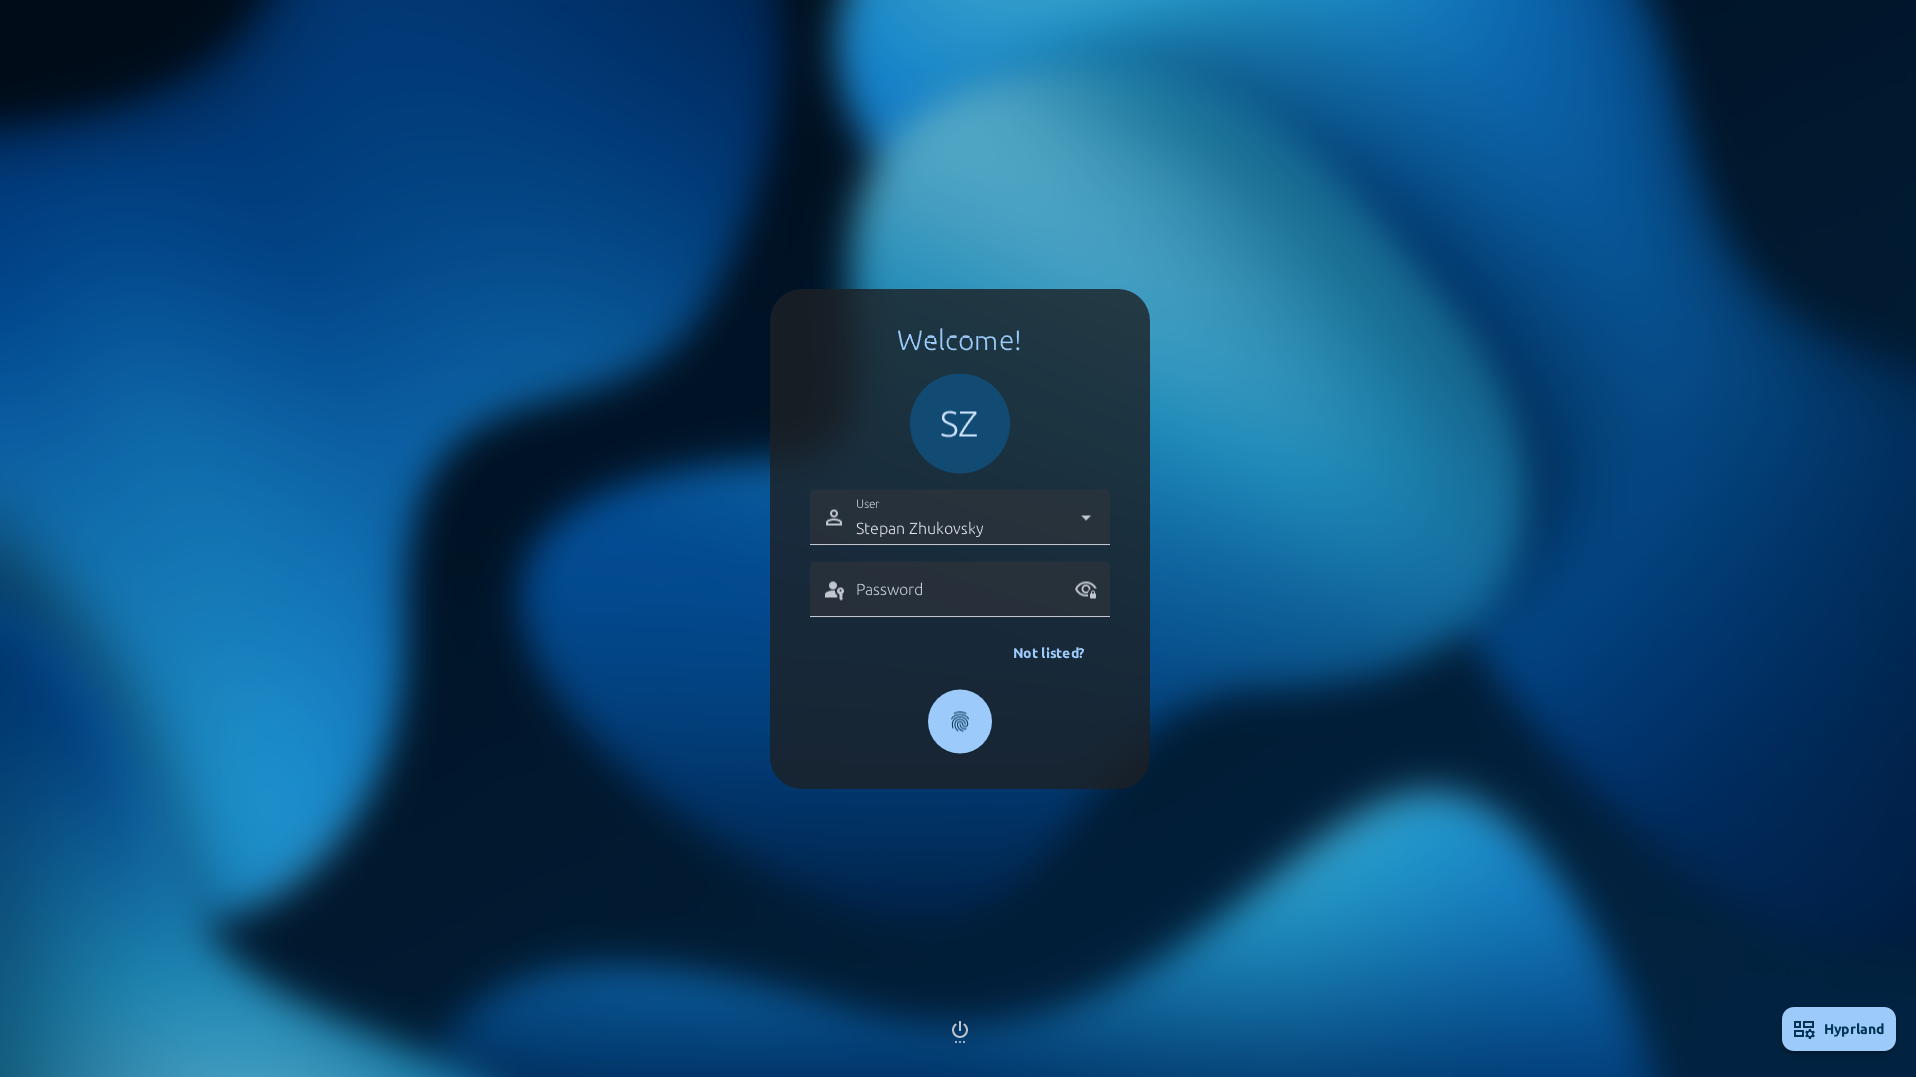
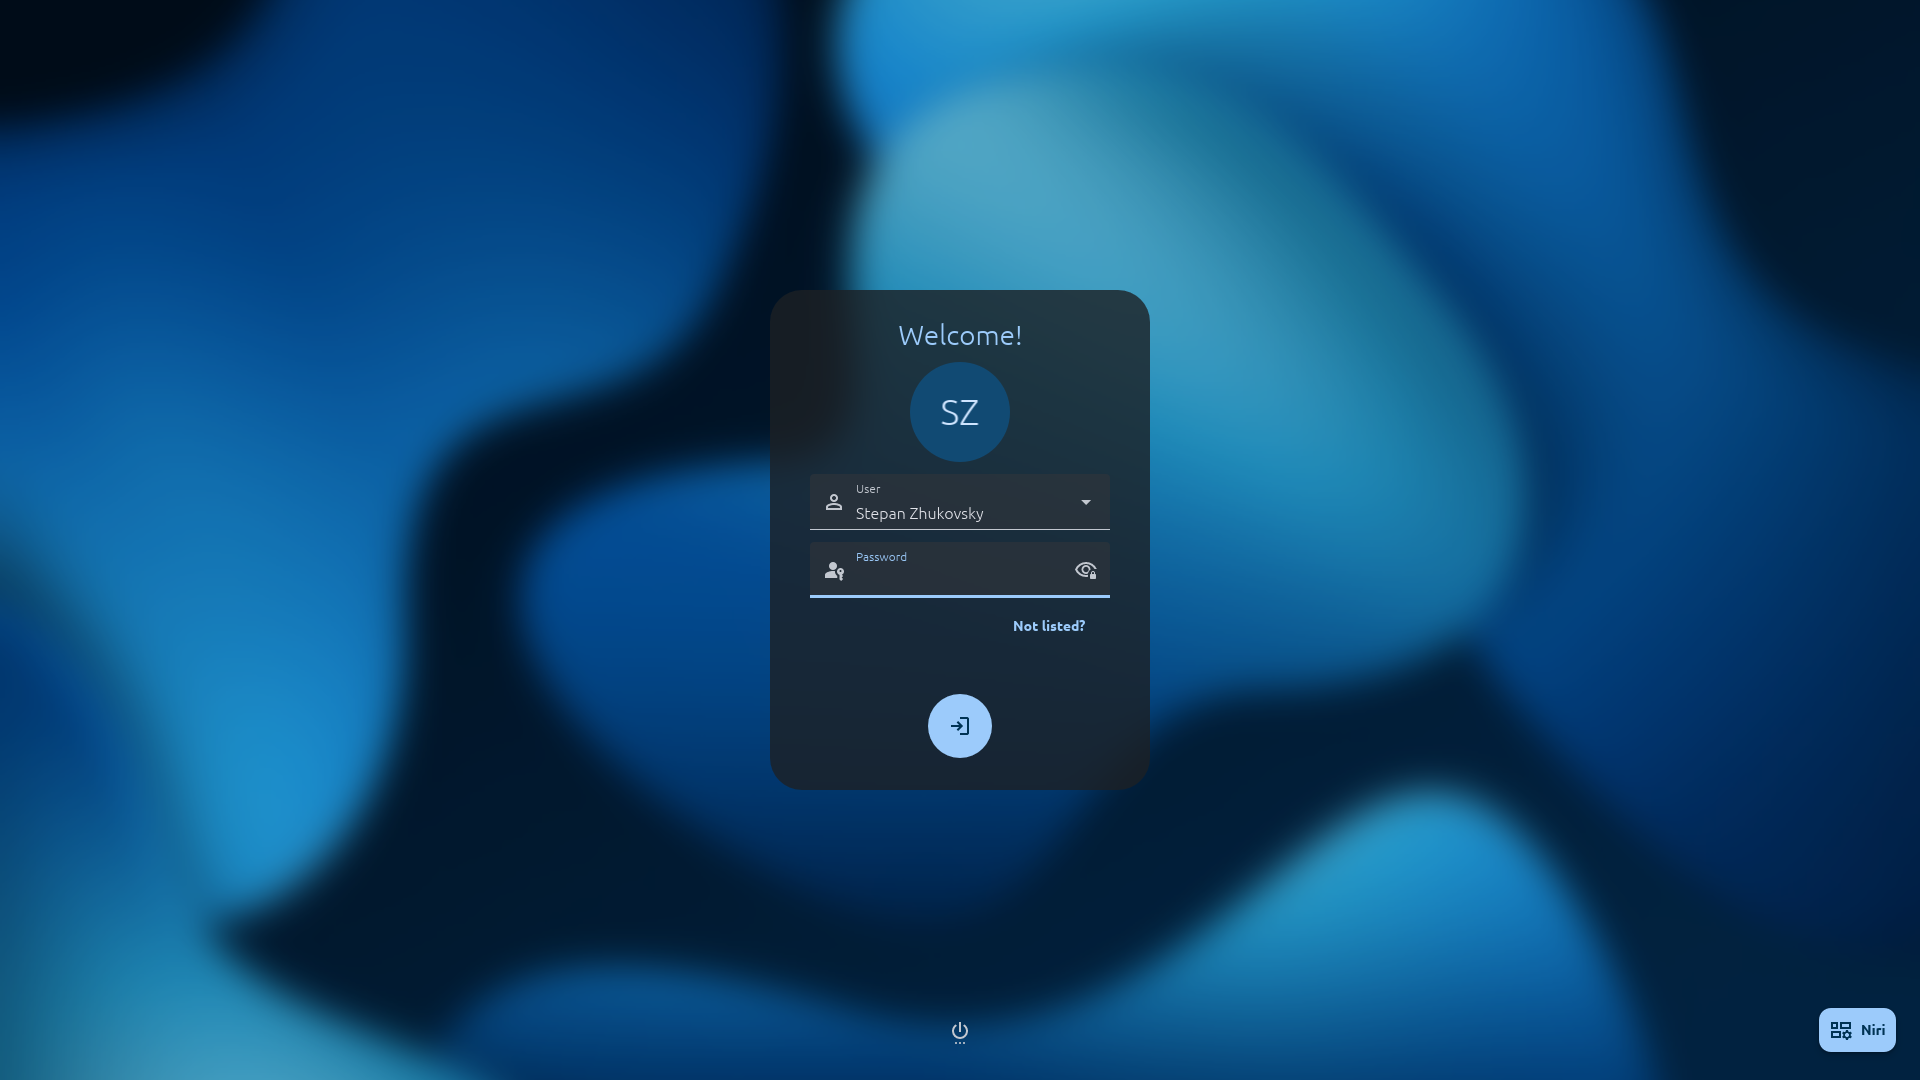
docs(ui): refresh screenshots for fingerprint login
Replace the clock, password, and power-menu screenshots with captures
from the updated demo UI. Add a fingerprint-card screenshot to the
interface overview and fingerprint guide.

diff --git a/docs/src/index.md b/docs/src/index.md
@@ -11,6 +11,8 @@ mdgreet is a fast, visually appealing, and highly customizable login screen for 
 - **Fast and Lightweight:** Built with Rust, ensuring quick startup times and minimal resource usage.
 - **Internationalization (i18n):** Native support for multiple languages.
 - **Wayland Native:** Runs perfectly under Wayland compositors like Cage or Sway.
+- **Fingerprint Login:** Sign in through greetd/PAM with automatic or explicit
+  start and password fallback.
 
 ## Interface Preview
 
@@ -18,7 +20,11 @@ mdgreet is a fast, visually appealing, and highly customizable login screen for 
 
 ![Main Screen](./assets/main-screen.png)
 
-*The login card with smooth background blur transition.*
+*The fingerprint login card with password fallback.*
+
+![Fingerprint Login Screen](./assets/fingerprint-screen.png)
+
+*The password login card with smooth background blur transition.*
 
 ![Login Screen](./assets/login-screen.png)
 

diff --git a/docs/src/user/fingerprint.md b/docs/src/user/fingerprint.md
@@ -1,5 +1,7 @@
 # Fingerprint login
 
+![Fingerprint login card in demo mode](../assets/fingerprint-screen.png)
+
 Use your fingerprint to sign in, with password entry available when you need it.
 Authentication is performed by greetd using the system's PAM configuration.
 
